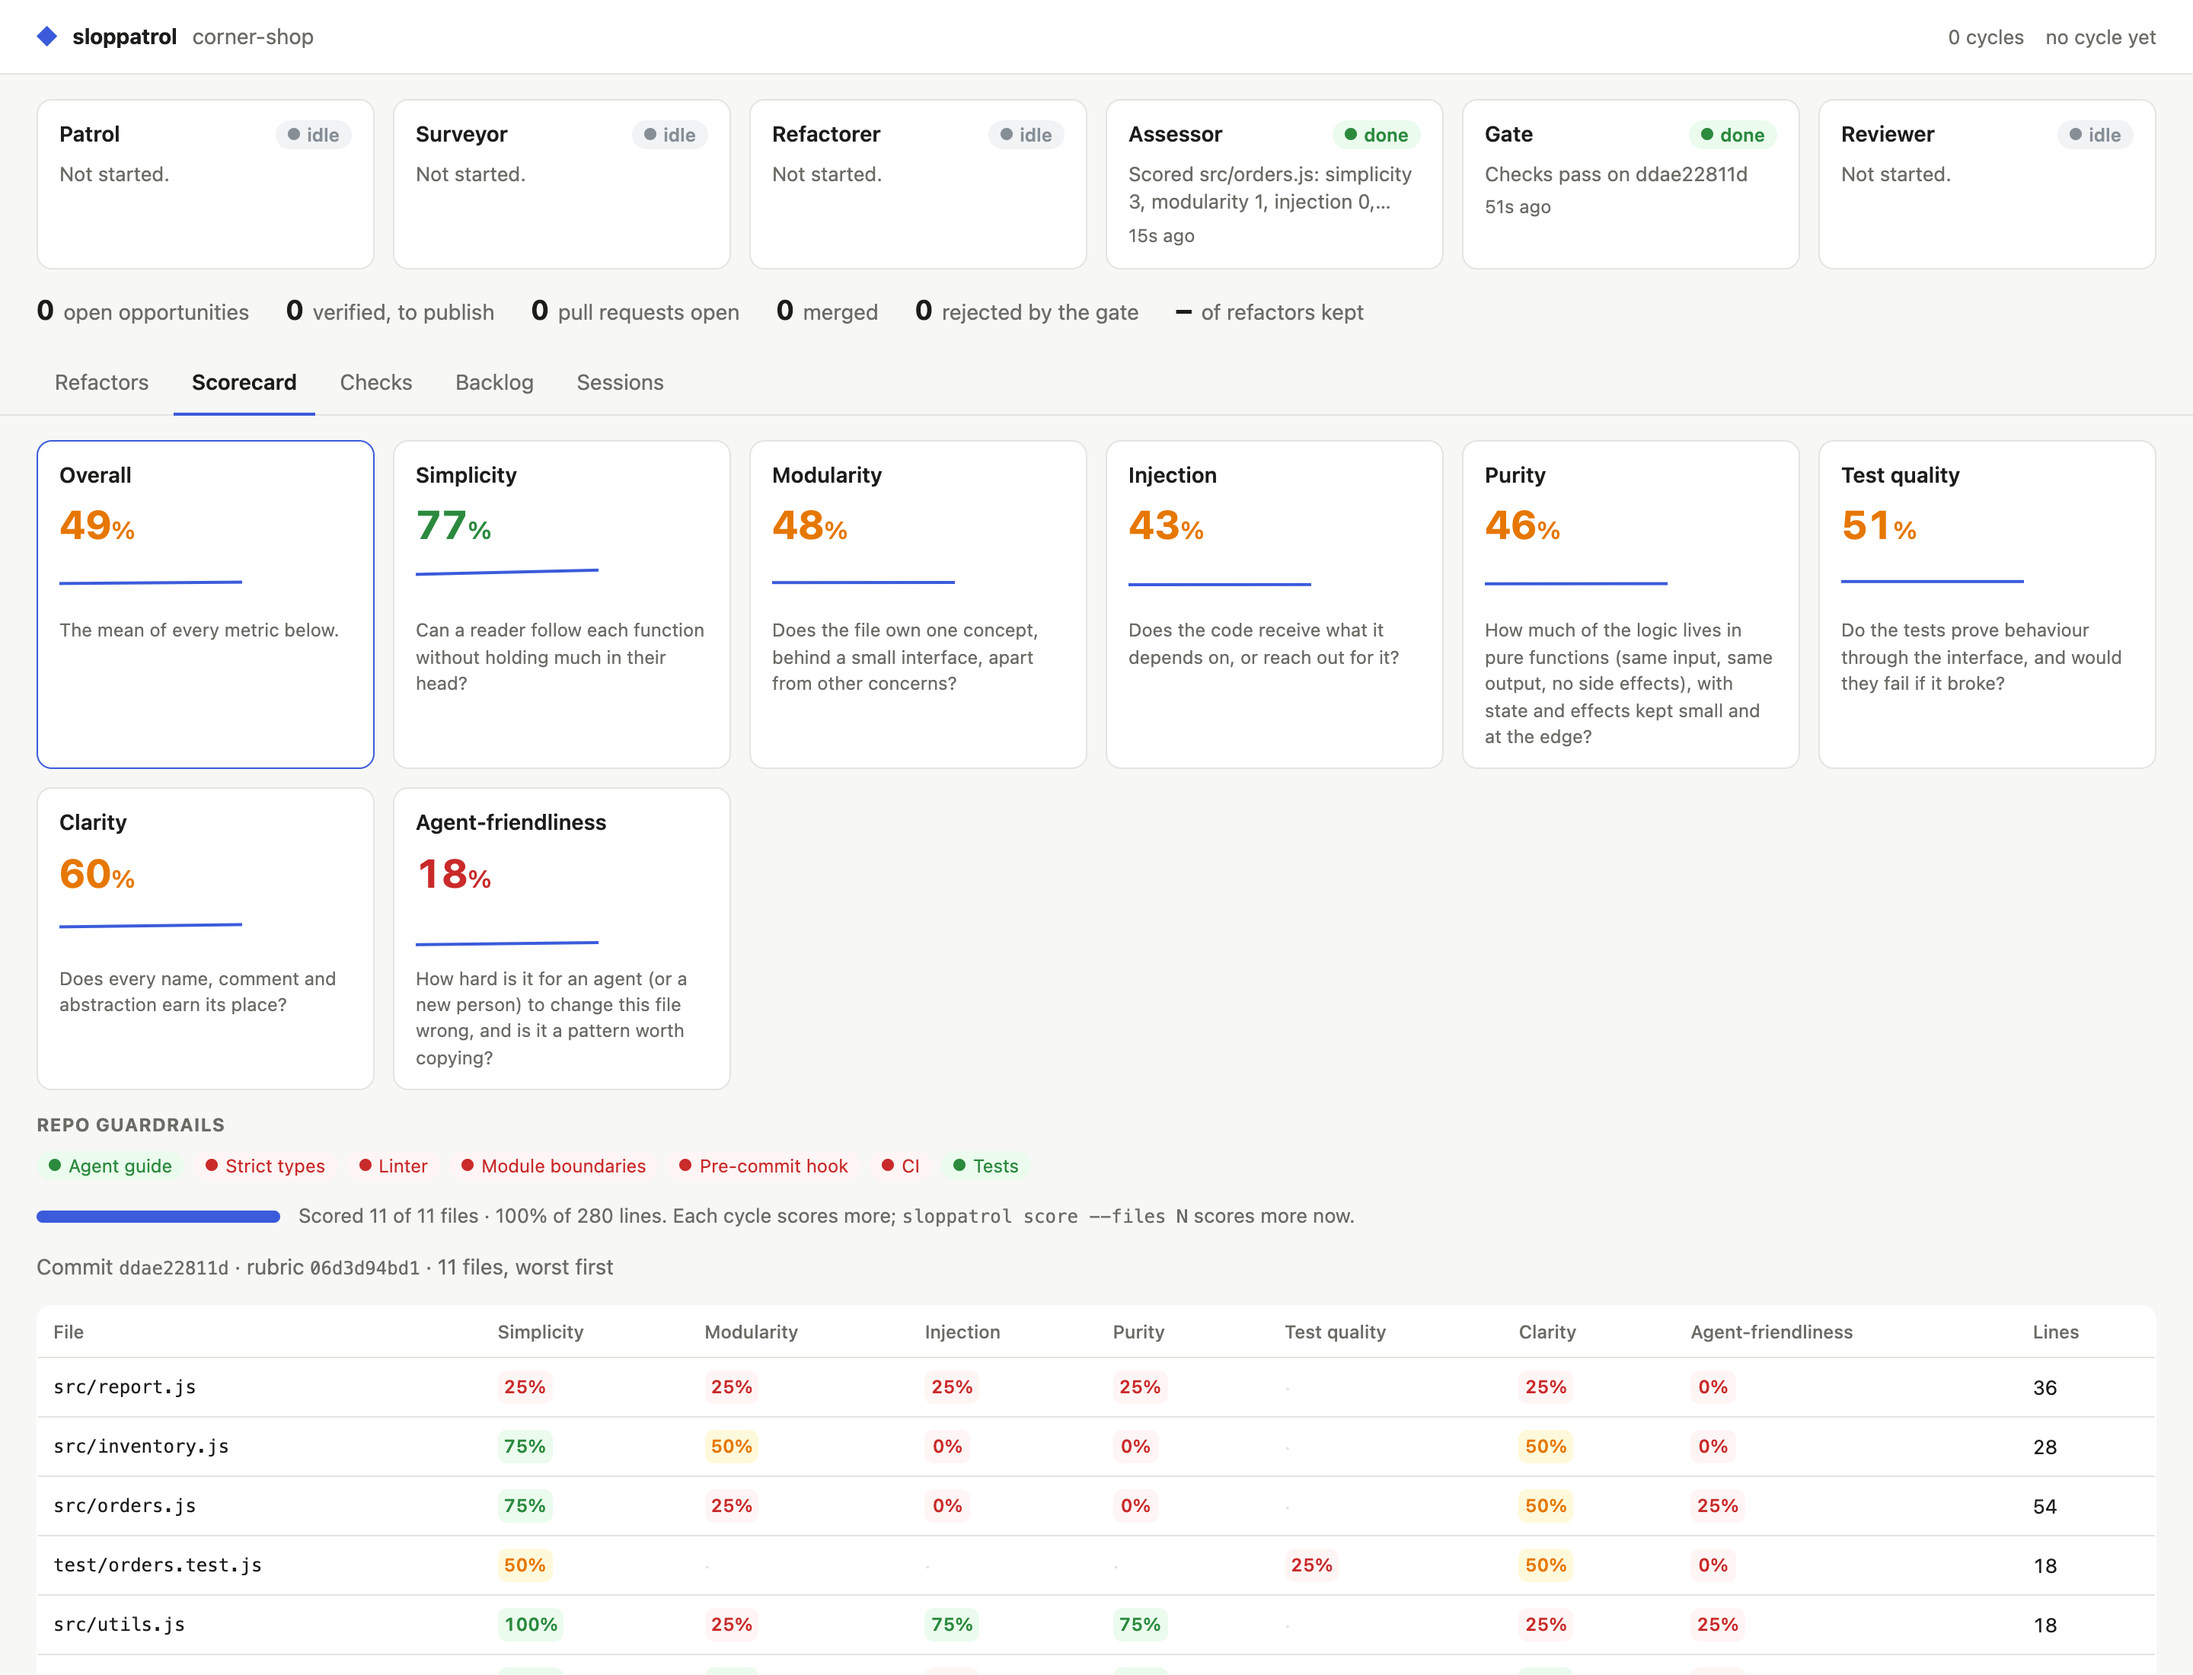
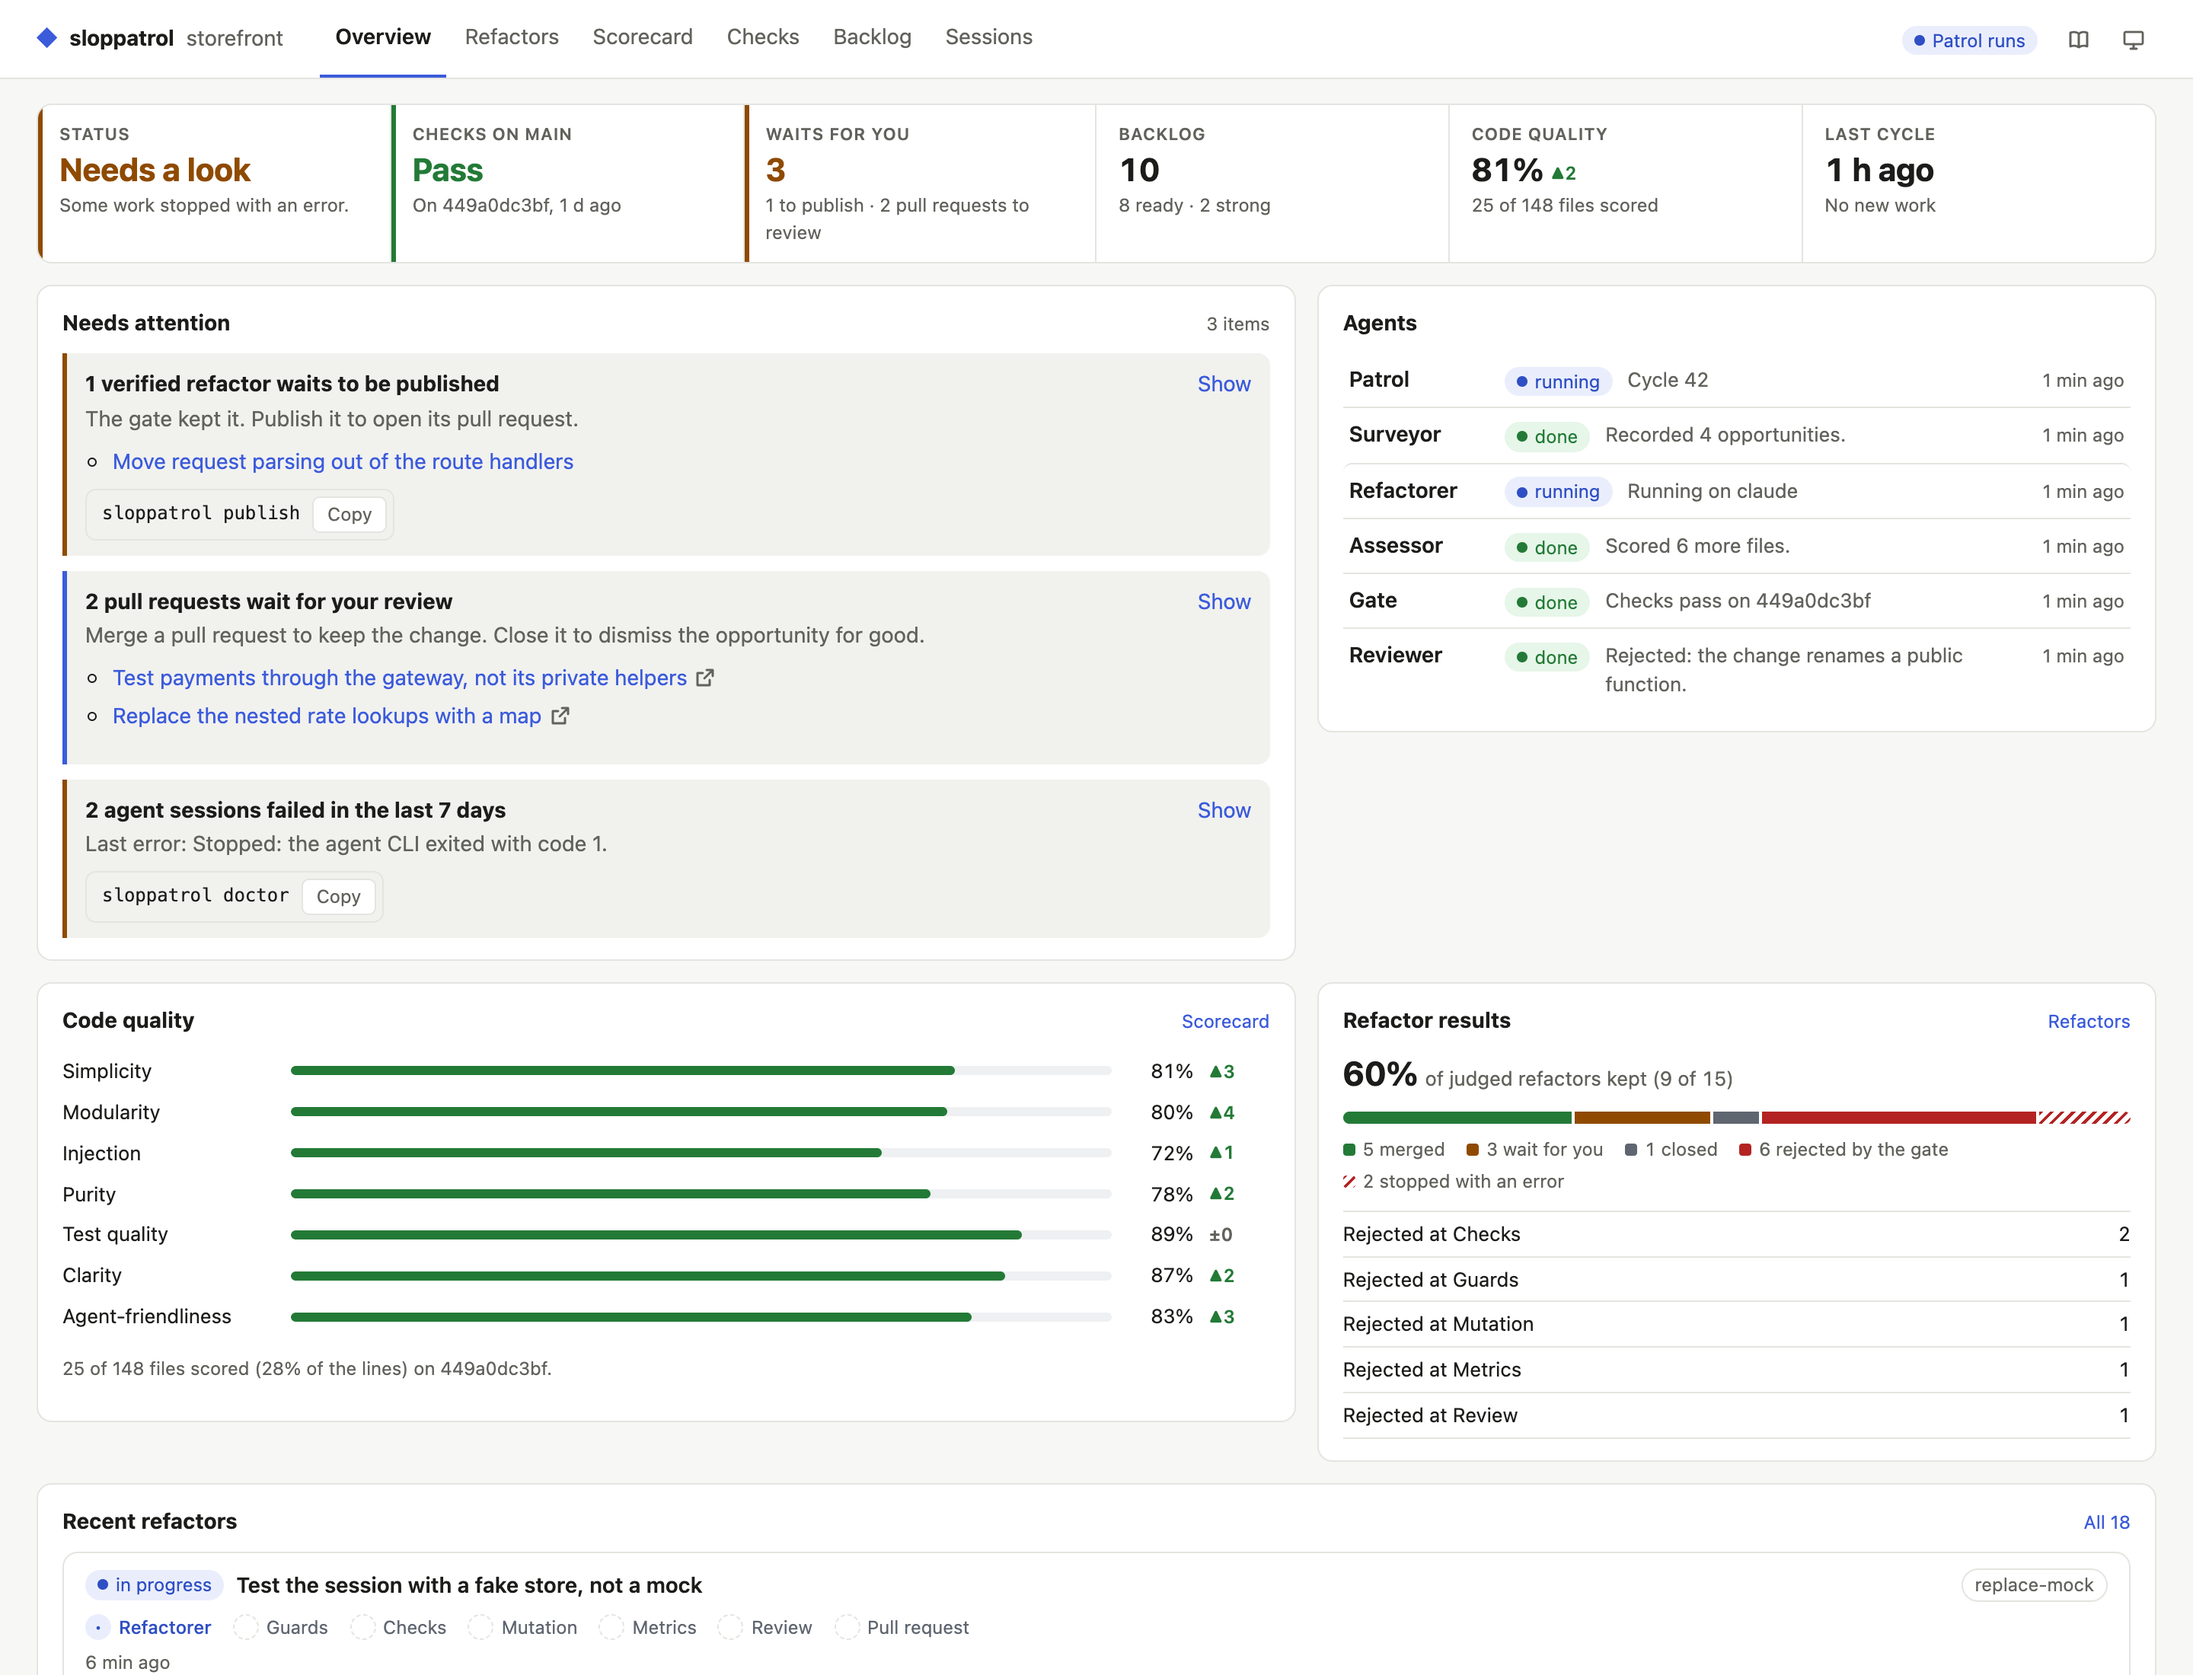
docs: describe the new dashboard, and update its screenshot

diff --git a/docs/dashboard.md b/docs/dashboard.md
@@ -1,13 +1,41 @@
 # The dashboard
 
+`sloppatrol` serves a dashboard on `http://127.0.0.1:4322` while it patrols (`--no-dashboard` turns it off; `sloppatrol dashboard` serves it alone). It reads the files under `.sloppatrol/runs/` and updates live, so it works during a patrol and after it. It listens on 127.0.0.1 only, and it is read-only.
 
-`sloppatrol` serves a dashboard on `http://127.0.0.1:4322` while it patrols (`--no-dashboard` turns it off; `sloppatrol dashboard` serves it alone). It shows, live:
+![The Overview of the dashboard on a demo project](../assets/dashboard.png)
 
-- **Agents**: what the patrol, the surveyor, the refactorer, the gate and the reviewer do now.
-- **Refactors**: each attempt as a pipeline (refactorer → guards → checks → mutation → metrics → review → pull request), with its full proof.
-- **Scorecard**: each metric's score and trend over commits, and every file of the panel with the evidence behind its scores.
-- **Checks**: every check run on `main`, on each refactor, and each run the refactorer starts itself, with the output of each check.
-- **Backlog**: the opportunities by status, with the problem, the change and the files.
-- **Sessions**: every agent session as a timeline of its tool calls.
+## Pages
 
-![The Scorecard tab of the dashboard on a demo project](../assets/dashboard.png)
+Each page starts with its numbers. Filters follow, then the details, with the problems first. Click a row to see its details and its evidence in a side panel.
+
+| Page | What it shows |
+| --- | --- |
+| Overview | The status of the project: the checks on main, what waits for you, the backlog, the code quality and its change, and the last cycle with its result. Then the items that need attention, each with the command to run next, the agents, the quality of each metric, the refactor results, and the recent refactors |
+| Refactors | Each attempt as a pipeline (refactorer → guards → checks → mutation → metrics → review → pull request), with its full proof. The groups are: in progress, waits for you, stopped with an error, rejected by the gate (with the step that rejected it), merged, and closed |
+| Scorecard | The overall score, each metric with its change and its trend, the repo guardrails, and each scored file, lowest first, with the evidence behind its scores |
+| Checks | Each check run on main, on each refactor, and each run the refactorer starts itself, with the output of each check. A problem is a red run on main, a refactor that the gate failed, or a planted bug that the tests missed |
+| Backlog | The opportunities by status. The open ones show in the order the refactorer picks them, and the ones that wait for a refactor that changes the same files |
+| Sessions | Each agent session as a timeline of its tool calls, with its cost |
+
+A page with no data says what it shows, why it is empty now, and the command to run next.
+
+The theme follows the system setting. The theme button in the top bar (a monitor, sun, or moon icon) changes it to Light, then Dark, then back to System. The browser keeps your choice.
+
+## The numbers
+
+The server computes each number once, and each page shows the same numbers. `GET /api/summary` returns them as JSON:
+
+- **Status**: `Blocked` when the checks fail on main, because no refactor can be verified then. `Needs a look` when work stopped with an error. `Waits for you` when a refactor waits to be published or a pull request waits for review. `Healthy` when none of these is true.
+- **Running work**: a refactor, a check run, or a session that the files mark as running shows as stopped when no Sloppatrol process runs. The next patrol cleans up the work and ends the open sessions.
+- **Quality change**: the change compares the last two scorecards over the files that both scored, so a file that joins the panel does not read as a change in quality.
+- **Last cycle**: each patrol cycle saves its result in `.sloppatrol/runs/cycles/`.
+
+## Demo data
+
+The tests make four demo projects: one with no run, one after its first cycle, one busy project, and one whose checks fail on main. To look at the dashboard on them:
+
+```bash
+pnpm tsc -p tsconfig.json --outDir node_modules/.cache/demo
+node node_modules/.cache/demo/dashboard/tests/write-fixtures.js /tmp/sloppatrol-fixtures
+node dist/cli/index.js dashboard --cwd /tmp/sloppatrol-fixtures/busy
+```

diff --git a/README.md b/README.md
@@ -57,13 +57,13 @@ flowchart TB
 
 ## The dashboard
 
-`npx sloppatrol` serves a live dashboard on http://127.0.0.1:4322. The **Scorecard** shows the quality of the whole repo: each metric, its trend, your repo's guardrails, and the score of each file.
+`npx sloppatrol` serves a live dashboard on http://127.0.0.1:4322. The **Overview** tells you at a glance if the patrol is healthy: the checks on main, what waits for your decision, the code quality and its change, and the last cycle. Then it lists what needs attention, with the command to run next.
 
 <p align="center">
-  <img src="assets/dashboard.png" alt="The Scorecard tab of the dashboard on a demo project: seven metrics in red, yellow or green, the repo guardrails, and the scores of each file." width="100%">
+  <img src="assets/dashboard.png" alt="The Overview of the dashboard on a demo project: a status band, the items that need attention with their commands, the agents, the code quality per metric, and the refactor results." width="100%">
 </p>
 
-The dashboard also shows each refactor as a pipeline with its proof, every check run, the backlog, and every agent session. [The dashboard](docs/dashboard.md) tells more.
+The other pages show each refactor as a pipeline with its proof, the scorecard of each file, every check run, the backlog in the order the refactorer picks it, and every agent session. [The dashboard](docs/dashboard.md) tells more.
 
 ## Set up with your agent
 
@@ -111,7 +111,7 @@ To set it up by hand, read [Getting started](docs/getting-started.md).
 | [Commands](docs/commands.md) | All the CLI commands |
 | [Configuration](docs/configuration.md) | All the settings in `.sloppatrol/sloppatrol.yml` |
 | [Agents and models](docs/models.md) | The agent of each role, and the model providers |
-| [The dashboard](docs/dashboard.md) | What each tab shows |
+| [The dashboard](docs/dashboard.md) | What each page shows |
 | [Playbook](playbook/principles.md) | The engineering practice that the agents follow |
 | [Glossary](GLOSSARY.md) | The words Sloppatrol uses, with one meaning each |
 | [Decisions](docs/adr/) | Why Sloppatrol works this way |
